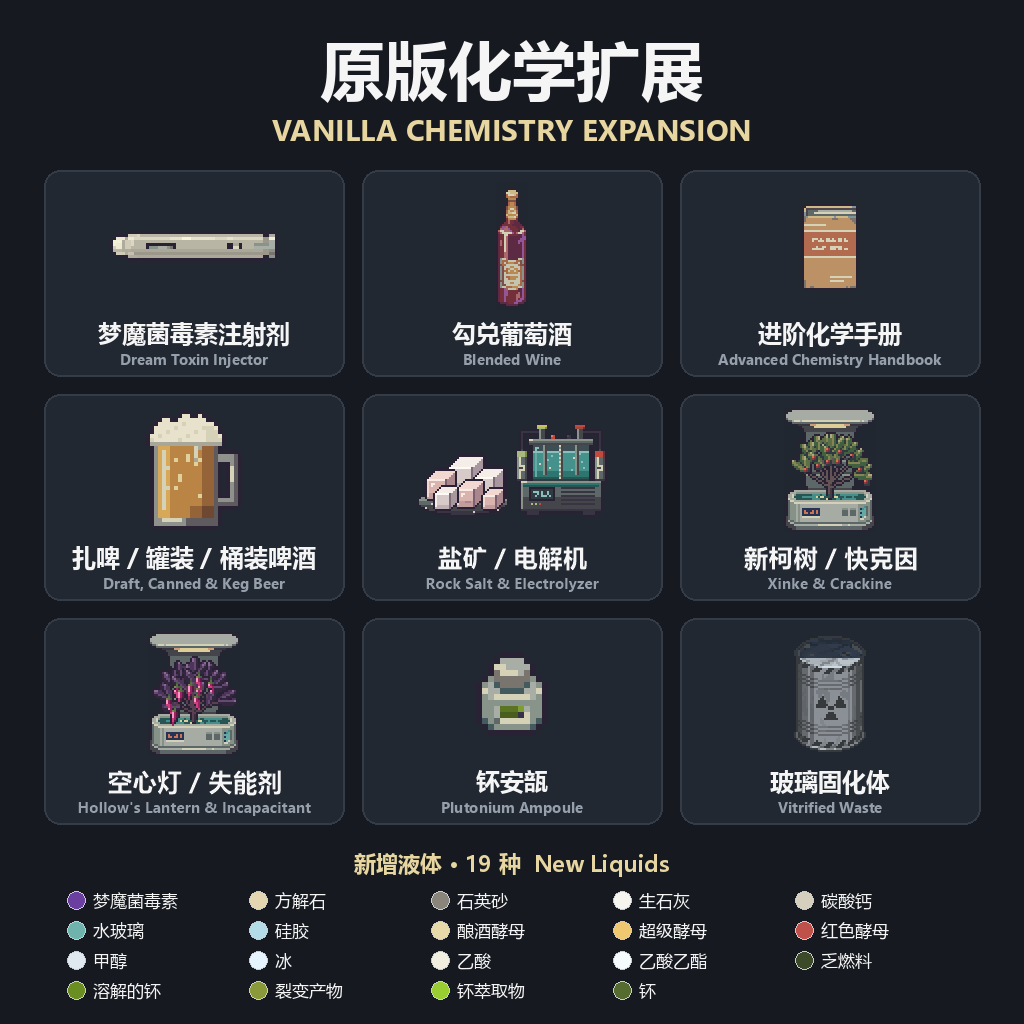
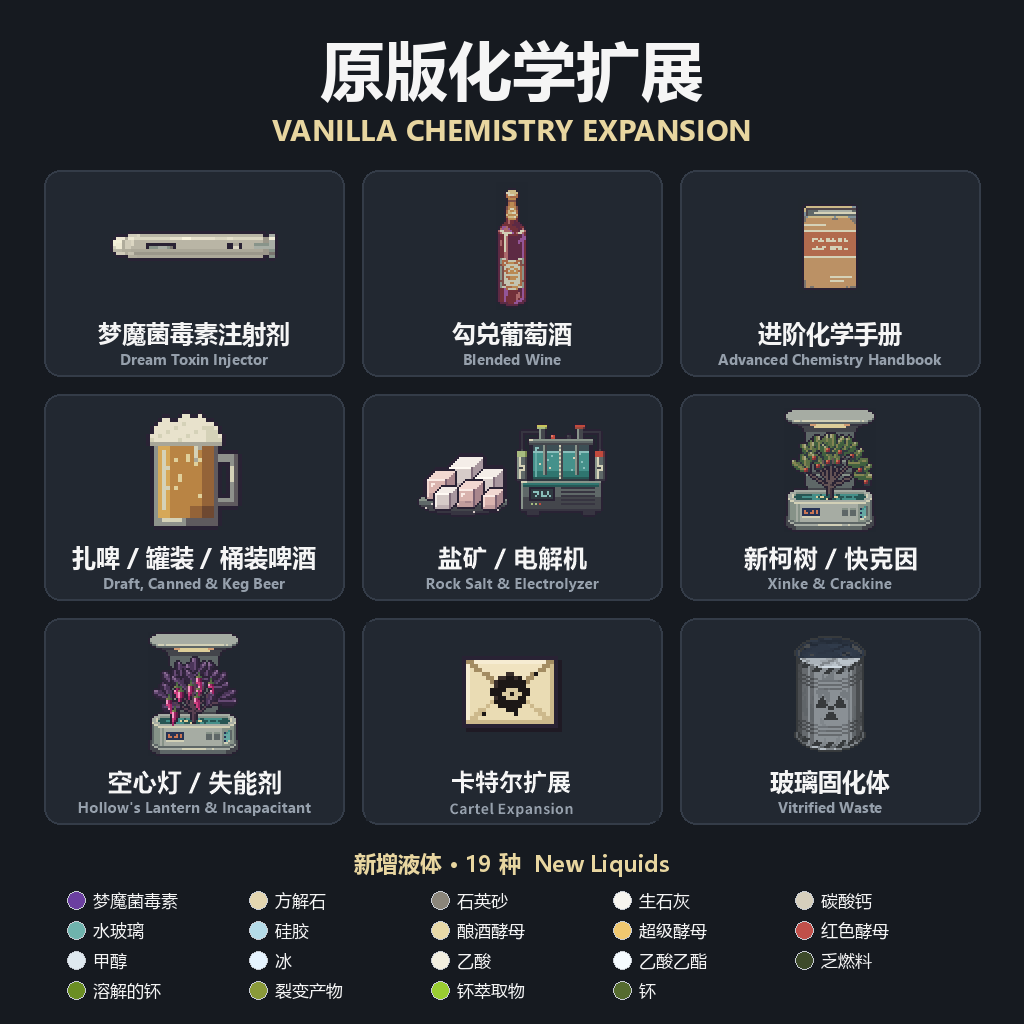
Workshop cover: cartel envelope replaces the plutonium ampoule card
The bottom-middle card now shows the cartel's sealed envelope (item sprite at
4x like the other icons) titled 卡特尔扩展 / Cartel Expansion, drawn into the
existing cover by art/cover/Cover.cs with the layout, colours and Noto Sans SC
sizes measured from the original. The previous cover is kept as
art/preview_1.7.1.png.

Changed region(s): [[0.4375, 0.625, 0.5625, 0.7188], [0.4375, 0.75, 0.5625, 0.8125]]

diff --git a/art/cover/Cover.cs b/art/cover/Cover.cs
@@ -1,0 +1,93 @@
+using System;
+using System.Drawing;
+using System.Drawing.Drawing2D;
+using System.Drawing.Imaging;
+using System.Drawing.Text;
+
+// Cover.cs <cover in> <envelope png> <cover out> <crop out>
+// Replaces the bottom-middle card (Plutonium Ampoule) of the workshop cover with the cartel envelope.
+// Layout measured from the original cover: card interior x 364..660, y 620..822, background #222831; icons are item
+// sprites at 4x, centred on (512, 693.5); title Noto Sans SC Bold 24 px #F5F5F5 with its ink top at y 770;
+// subtitle 14.5 px #96A0AC with its ink top at y 802; both centred on x 512.
+public static class Cover
+{
+    const int CENTRE_X = 512;
+
+    public static void Main(string[] args)
+    {
+        Bitmap cover = new Bitmap(args[0]);
+        Bitmap envelope = new Bitmap(args[1]);
+        using (Graphics g = Graphics.FromImage(cover))
+        {
+            // Clear the card's contents, inside its border.
+            using (SolidBrush bg = new SolidBrush(ColorTranslator.FromHtml("#222831")))
+            {
+                g.FillRectangle(bg, 366, 622, 293, 199);
+            }
+
+            // Envelope: opaque box x 4..28, y 8..26 of the 32x32 sprite, drawn at 4x and centred like the other icons.
+            const int SCALE = 4;
+            double boxCentreX = (4 + 28 + 1) / 2.0;
+            double boxCentreY = (8 + 26 + 1) / 2.0;
+            int left = (int)Math.Round(CENTRE_X - boxCentreX * SCALE);
+            int top = (int)Math.Round(693.5 - boxCentreY * SCALE);
+            g.InterpolationMode = InterpolationMode.NearestNeighbor;
+            g.PixelOffsetMode = PixelOffsetMode.Half;
+            g.DrawImage(envelope, new Rectangle(left, top, envelope.Width * SCALE, envelope.Height * SCALE));
+            Console.WriteLine("envelope sprite at " + left + "," + top + " (ink " + (left + 4 * SCALE) + ".." + (left + 29 * SCALE - 1) + ", " + (top + 8 * SCALE) + ".." + (top + 27 * SCALE - 1) + ")");
+
+            DrawCentred(cover, "卡特尔扩展", 24f, ColorTranslator.FromHtml("#F5F5F5"), 770, TextRenderingHint.AntiAliasGridFit);
+            DrawCentred(cover, "Cartel Expansion", 14.5f, ColorTranslator.FromHtml("#96A0AC"), 802, TextRenderingHint.AntiAlias);
+        }
+        cover.Save(args[2], ImageFormat.Png);
+
+        // A 2x crop of the whole bottom row for checking.
+        Rectangle row = new Rectangle(40, 612, 944, 220);
+        using (Bitmap crop = new Bitmap(row.Width * 2, row.Height * 2))
+        using (Graphics g = Graphics.FromImage(crop))
+        {
+            g.InterpolationMode = InterpolationMode.NearestNeighbor;
+            g.PixelOffsetMode = PixelOffsetMode.Half;
+            g.DrawImage(cover, new Rectangle(0, 0, crop.Width, crop.Height), row, GraphicsUnit.Pixel);
+            crop.Save(args[3], ImageFormat.Png);
+        }
+    }
+
+    // Renders the text off-screen, finds its ink box, and copies it so the ink is centred on CENTRE_X with its top at inkTop.
+    static void DrawCentred(Bitmap target, string text, float size, Color colour, int inkTop, TextRenderingHint hint)
+    {
+        Color bg = ColorTranslator.FromHtml("#222831");
+        using (Bitmap tmp = new Bitmap(500, 80))
+        using (Graphics g = Graphics.FromImage(tmp))
+        using (Font f = new Font("Noto Sans SC", size, FontStyle.Bold, GraphicsUnit.Pixel))
+        using (SolidBrush brush = new SolidBrush(colour))
+        {
+            g.Clear(bg);
+            g.TextRenderingHint = hint;
+            g.DrawString(text, f, brush, 20, 20);
+            int minx = 999, maxx = -1, miny = 999, maxy = -1;
+            for (int y = 0; y < tmp.Height; y++)
+                for (int x = 0; x < tmp.Width; x++)
+                {
+                    Color c = tmp.GetPixel(x, y);
+                    if (Math.Abs(c.R - bg.R) + Math.Abs(c.G - bg.G) + Math.Abs(c.B - bg.B) > 24)
+                    {
+                        minx = Math.Min(minx, x); maxx = Math.Max(maxx, x); miny = Math.Min(miny, y); maxy = Math.Max(maxy, y);
+                    }
+                }
+            int width = maxx - minx + 1;
+            int dx = (int)Math.Round(CENTRE_X - width / 2.0) - minx;
+            int dy = inkTop - miny;
+            for (int y = 0; y < tmp.Height; y++)
+                for (int x = 0; x < tmp.Width; x++)
+                {
+                    Color c = tmp.GetPixel(x, y);
+                    if (c.ToArgb() != bg.ToArgb())
+                    {
+                        target.SetPixel(x + dx, y + dy, c);
+                    }
+                }
+            Console.WriteLine(text + ": ink " + width + "x" + (maxy - miny + 1) + " at x " + (minx + dx) + ".." + (maxx + dx) + ", y " + inkTop + ".." + (maxy + dy));
+        }
+    }
+}
